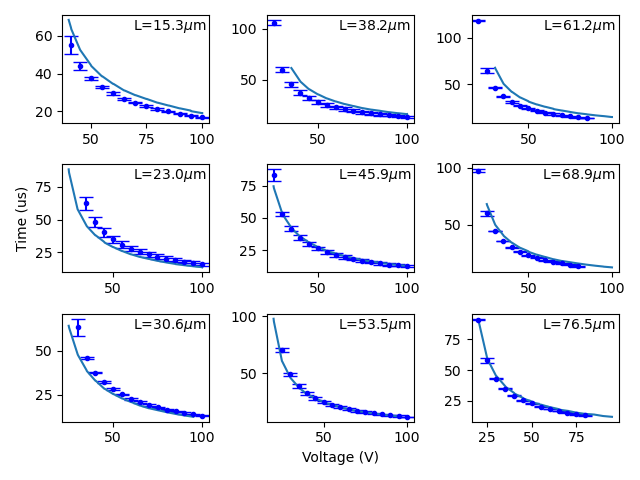
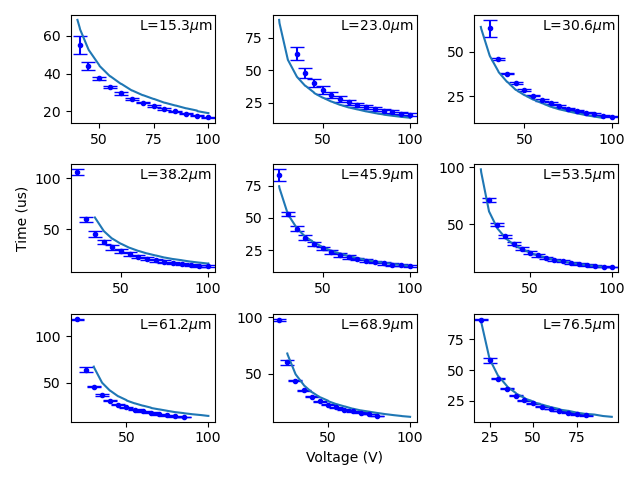
working on matching 12/16 simulations

diff --git a/sim_gca_V_fingerL_pullin_release.py b/sim_gca_V_fingerL_pullin_release.py
@@ -53,7 +53,7 @@ def plot_data(fig, axs, pullin_V, pullin_avg, pullin_std, release_V, release_avg
         for idy in range(ny):
             i = nx*idy+idx
             # ax = plt.subplot(nx, ny, i+1)
-            ax = axs[idx, idy]
+            ax = axs[idy, idx]
             ax.errorbar(pullin_V[i], pullin_avg[i], pullin_std[i], fmt='b.', capsize=5)
             # ax.errorbar(release_V[i], release_avg[i], release_std[i], fmt='r.', capsize=5)
             # ax.text(0.6*ax.get_xlim()[-1], 0.85*ax.get_ylim()[-1], labels[i])
@@ -109,7 +109,15 @@ if __name__ == "__main__":
         V_converged = []
         times_converged = []
 
-        V_test = np.sort(np.append(V_values, [pullin_V[idy], pullin_V[idy]+0.2]))  # Add some extra values to test
+        # V_test = np.sort(np.append(V_values, [pullin_V[idy], pullin_V[idy]+0.2]))  # Add some extra values to test
+        V_test = []
+        for V in V_values:
+            # V_test.append(V - 0.1)
+            V_test.append(V)
+            # V_test.append(V + 0.2)
+            V_test.append(V + 0.5)
+            V_test.append(V + 1)
+            V_test.append(V + 1.5)
         # (adds a lot of compute time, since failed simulations take time)
         for V in V_test:
             u = setup_inputs(V=V, Fext=Fext)
@@ -122,7 +130,7 @@ if __name__ == "__main__":
 
         # ax = plt.subplot(nx, ny, idy+1)
         # plt.plot(V_converged, times_converged)
-        axs[idy // ny, idy % ny].plot(V_converged, times_converged)
+        axs[idy % ny, idy // ny].plot(V_converged, times_converged)
         # ax.text(0.8*ax.get_xlim()[-1], 0.8*ax.get_ylim()[-1], "w={}um\nL={}um".format(fingerW*1e6, fingerL*1e6))
         # ax.set_aspect(1.0/ax.get_data_ratio(), adjustable='box')
 

diff --git a/gca.py b/gca.py
@@ -61,6 +61,18 @@ class GCA:
             return bsf
 
         def bsf_calc2():
+            t_SOI_primef = t_SOI
+            t_SOI_primeb = t_SOI
+            bsff = self.process.mu*self.Nfing*S1*(S2**3)*beta(S2/S1)*(1/(gf-x)**3)
+            bsfb = self.process.mu*self.Nfing*S1*(S2**3)*beta(S2/S1)*(1/(gb+x)**3)
+            bsf_adjf = (4*(gf-x)**3*fingerW+2*self.process.t_ox**3*t_SOI_primef)/(
+                    (gf-x)**3*fingerW+2*self.process.t_ox**3*t_SOI_primef)
+            bsf_adjb = (4*(gb+x)**3*fingerW+2*self.process.t_ox**3*t_SOI_primeb)/(
+                    (gb+x)**3*fingerW+2*self.process.t_ox**3*t_SOI_primeb)
+            bsf = bsff*bsf_adjf+bsfb*bsf_adjb
+            return bsf
+
+        def bsf_calc3():
             t_SOI_primef = t_SOI+0.81*(1+0.94*self.process.mfp/(gf-x))*(gf-x)
             t_SOI_primeb = t_SOI+0.81*(1+0.94*self.process.mfp/(gb+x))*(gb+x)
             bsff = self.process.mu*self.Nfing*S1*(S2**3)*beta(S2/S1)*(1/(gf-x)**3)
@@ -72,7 +84,7 @@ class GCA:
             bsf = bsff*bsf_adjf+bsfb*bsf_adjb
             return bsf
 
-        bsf = bsf_calc1()
+        bsf = bsf_calc3()
 
         # Couette flow damping
         bcf = self.process.mu*self.spineA/self.process.t_ox

diff --git a/process.py b/process.py
@@ -1,6 +1,6 @@
 class SOI:
     def __init__(self):
-        self.overetch = 0.5e-6  # process overetch (m)
+        self.overetch = 0.48e-6  # process overetch (m)
         self.t_SOI = 40e-6  # thickness of silicon (m)
         self.t_ox = 2e-6  # thickness of oxide (m)
         self.t_gold = 500e-9  # depends on exact process (m)
